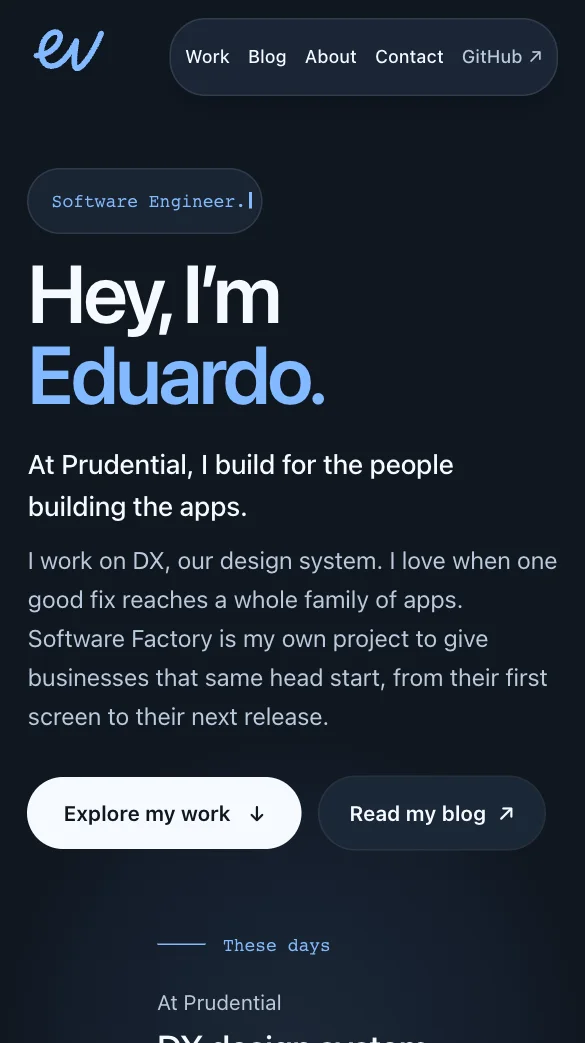
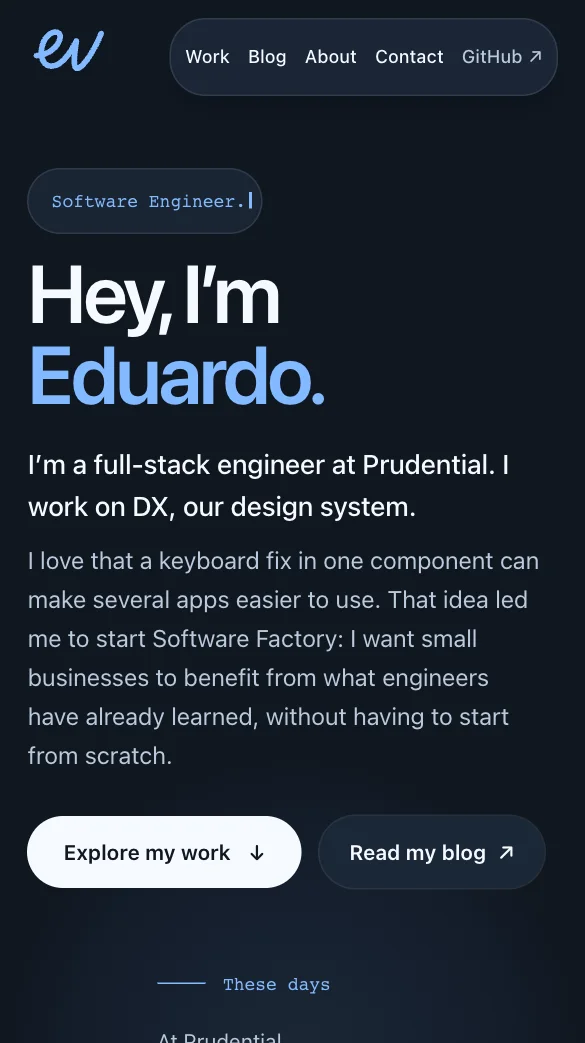
Introduce my work at Prudential in plain language

diff --git a/apps/portfolio/src/components/PersonalIntro/index.tsx b/apps/portfolio/src/components/PersonalIntro/index.tsx
@@ -22,12 +22,12 @@ export function PersonalIntro() {
           Hey, I’m <span className="block text-vidals-accent">Eduardo.</span>
         </h1>
         <p className="mt-5 text-pretty text-lg font-medium sm:text-2xl">
-          At Prudential, I build for the people building the apps.
+          I’m a full-stack engineer at Prudential. I work on DX, our design system.
         </p>
         <p className="mt-2 max-w-[48ch] text-pretty text-base leading-relaxed text-vidals-muted sm:text-lg">
-          I work on DX, our design system. I love when one good fix reaches a whole family of apps.
-          Software Factory is my own project to give businesses that same head start, from their
-          first screen to their next release.
+          I love that a keyboard fix in one component can make several apps easier to use. That idea
+          led me to start Software Factory: I want small businesses to benefit from what engineers
+          have already learned, without having to start from scratch.
         </p>
         <div className="mt-7 flex flex-wrap items-center gap-3">
           <Link
